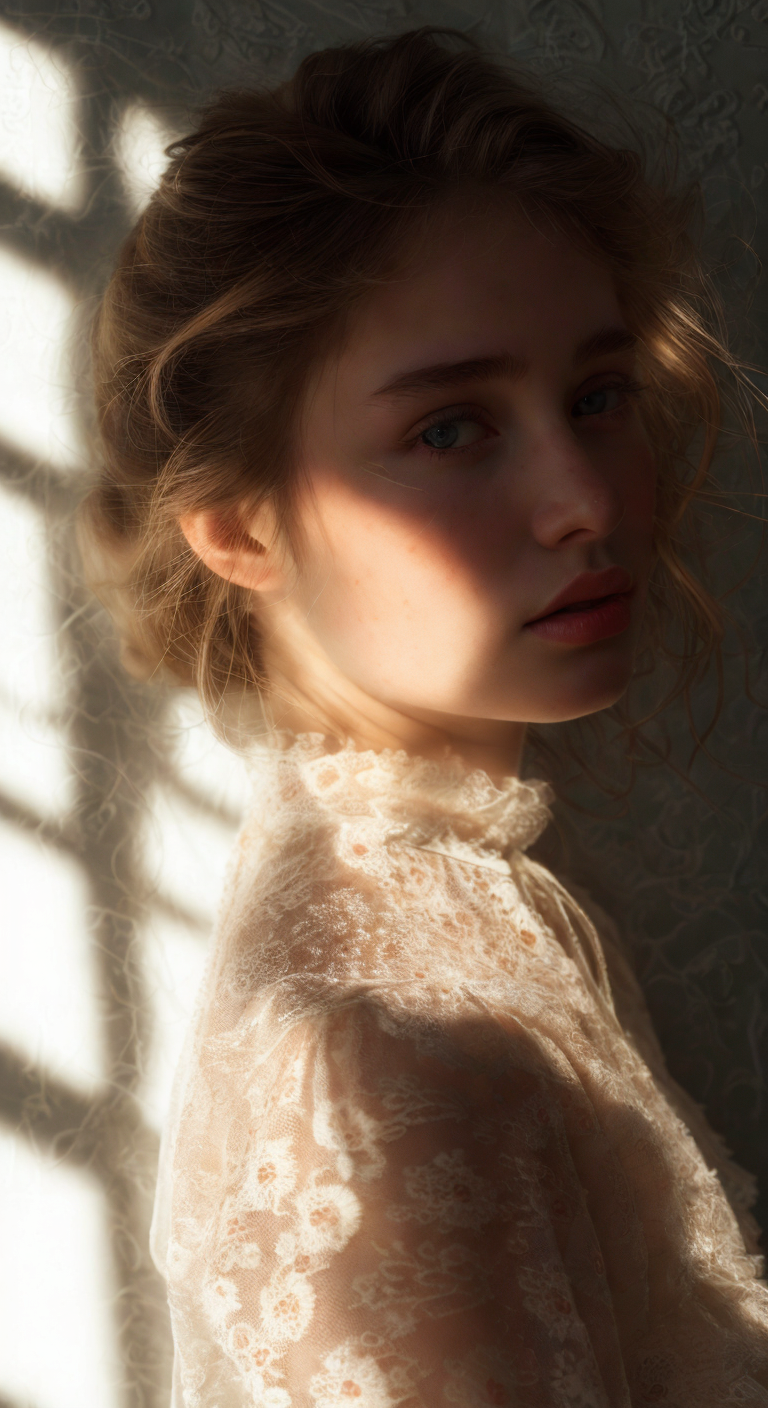
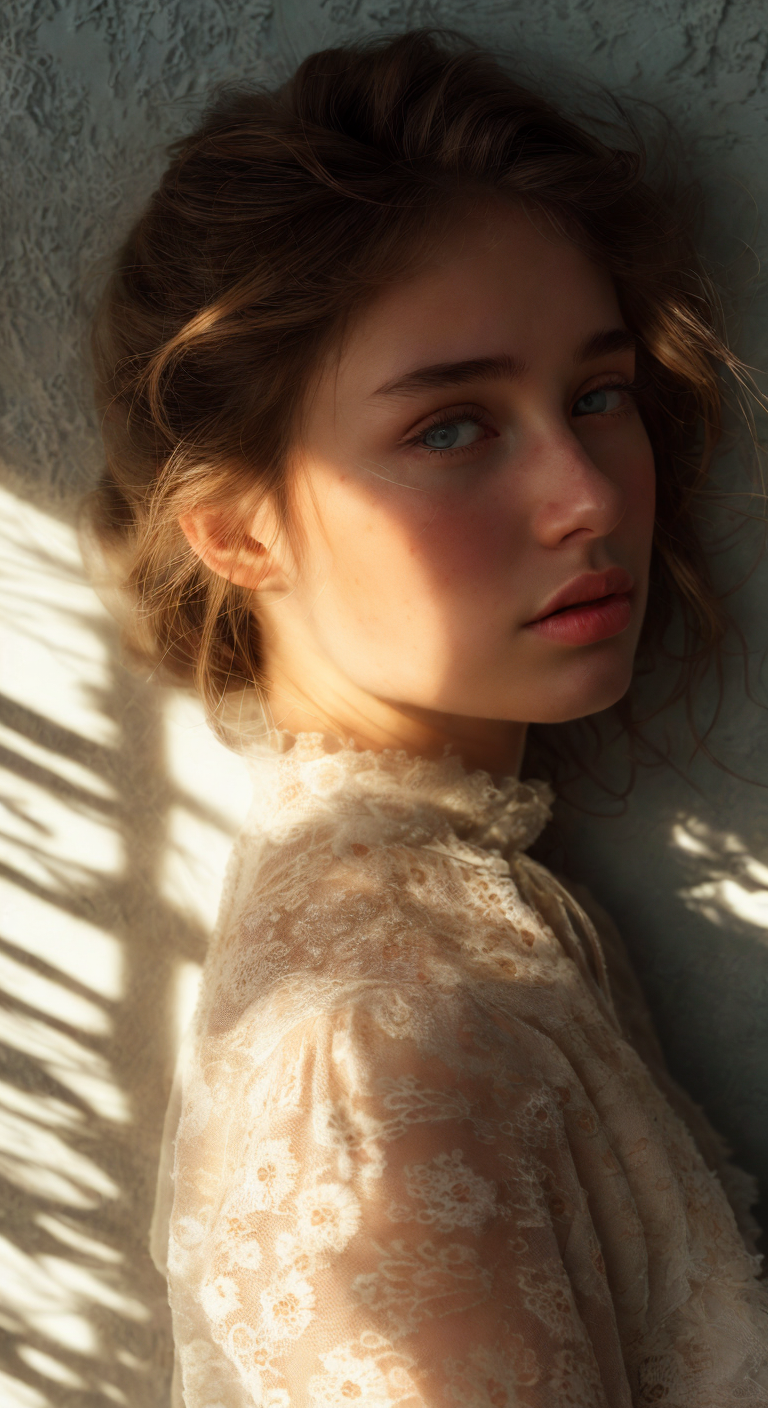
i

diff --git a/db_examples.py b/db_examples.py
@@ -86,7 +86,7 @@ foreground_conditioned_examples = [
         "Left Light",
         512,
         960,
-        65123,
+        8888,
         "imgs/o10.png",
     ],
     [
